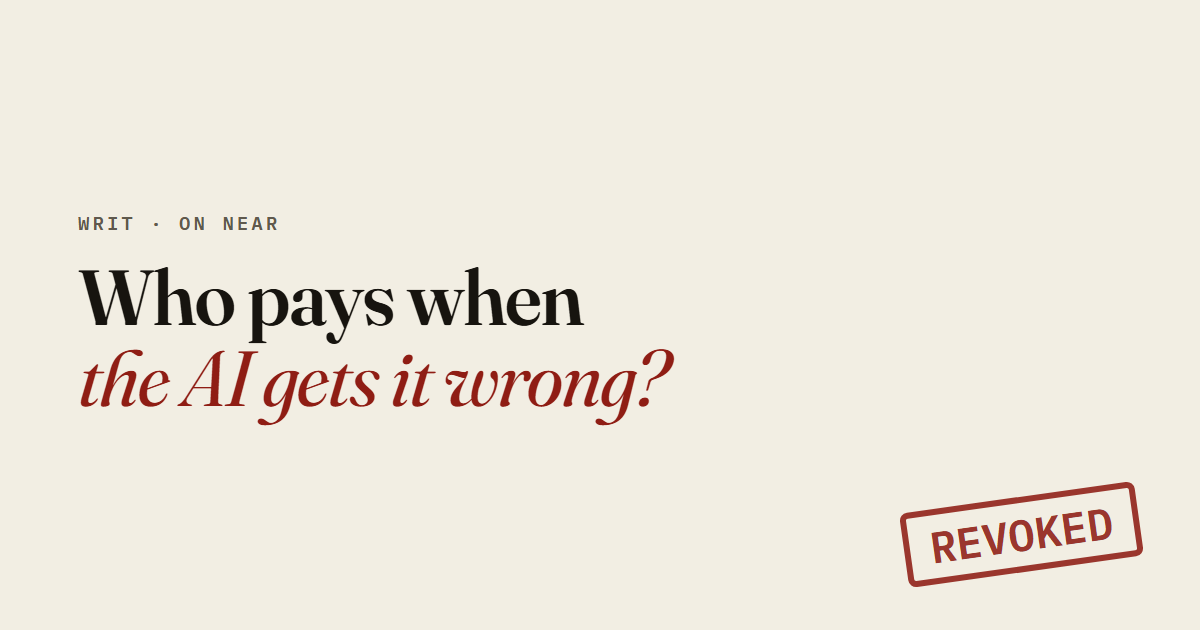
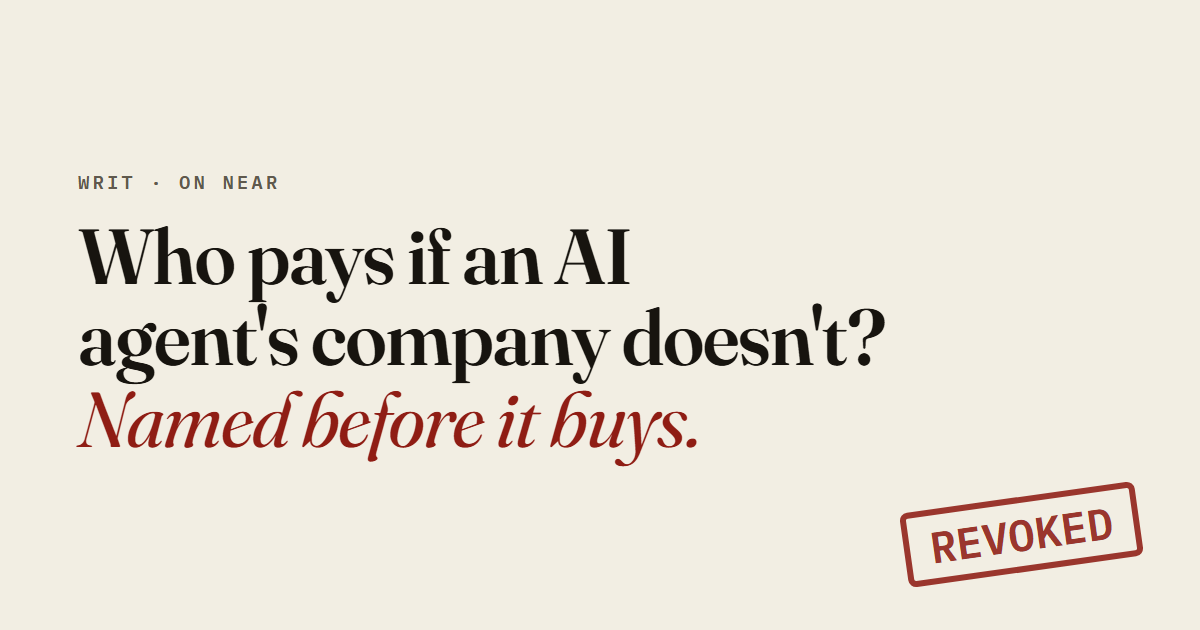
fix: testnet credit report path, verifier checks the terms signature, stamp and mobile layout

diff --git a/app/src/credit-demo.ts b/app/src/credit-demo.ts
@@ -8,14 +8,22 @@
  * 結尾印 CREDIT_RESULT 一行給機器檢查。
  */
 import { createHash } from "node:crypto";
-import { writeFileSync } from "node:fs";
+import { rmSync, writeFileSync } from "node:fs";
 import { join } from "node:path";
 import { teraToGas, type KeyPairString } from "near-api-js";
-import { DEMO, NEAR, as, call, fmt, readJson, view } from "./near.js";
+import { DEMO, NEAR, ROOT, as, call, fmt, readJson, view } from "./near.js";
 import { A, balance, register } from "./flow.js";
 import { keriPrivate, py, releaseLink } from "./keri.js";
 
 const a = A();
+// 對 testnet 跑：開一份新的憑證（別的流程留下的 ECR 已撤銷）。沒有專屬仲裁帳號，用 owner
+const LIVE = !!process.env.WRIT_CREDIT_REPORT;
+if (LIVE) {
+  for (const d of ["keri/.keystore", "keri/bundle", "keri/registrar"]) rmSync(join(ROOT, d), { recursive: true, force: true });
+  const init = py("issuer.py", "init", "--scope", a.merchant.id, "--rail", a.acme.id, "--n", "20", "--unit", "1e23", "--daily", "20", "--days", "30",
+    "--credit-limit", "1e24", "--bond-bps", "0", "--premium-bps", "200", "--min-tenor", "0", "--max-tenor", "86400", "--arbiter", a.owner.id, "--contract", a.writ.id);
+  py("verify.py", "pin", "--root", JSON.parse(init.slice(init.indexOf("{"), init.lastIndexOf("}") + 1)).root);
+}
 const say = (s: string) => console.log(s);
 const sleep = (ms: number) => new Promise((r) => setTimeout(r, ms));
 const sha = (s: string) => createHash("sha256").update(s).digest("hex");
@@ -41,7 +49,7 @@ async function order(j: number, invoice: string, dueInSecs: number) {
   for (const [m, args] of [["accept_credit", { credit: id }], ["mark_delivered", { credit: id, delivery_hash: sha(`delivery ${invoice}`) }]] as const) {
     const x = await call(seller, a.writ.id, m, args, { gas: teraToGas("50") });
     if (x.error) throw new Error(`${m}: ${x.error}`);
-    txs.push([`Seller ${m === "accept_credit" ? "accepts" : "marks delivered"} ${invoice}; the fee moves to the guarantor on accept`, x.hash]);
+    txs.push([m === "accept_credit" ? `Seller accepts ${invoice}; the fee moves to the guarantor` : `Seller marks ${invoice} delivered`, x.hash]);
   }
   return id;
 }
@@ -55,8 +63,11 @@ txs.push(["Agent settles the first order on time; the company stays sealed", s1.
 const card1: any = await view(a.writ.id, "risk_card", { cell });
 say(`2  order ${paid} delivered and paid on time → ${JSON.stringify(s1.value ?? s1.error)}; legal entity=${card1.legal_entity}; record: ${card1.settled} settled`);
 
-const unpaid = await order(8, "INV-CREDIT-2", 1);
-await sleep(5000);
+// testnet 上從算到期日到上鏈要好幾秒，到期日給寬一點；要等過到期日與 3 秒驗收期
+const dueSecs = LIVE ? 30 : 1;
+const placed = Date.now();
+const unpaid = await order(8, "INV-CREDIT-2", dueSecs);
+await sleep(Math.max(5000, placed + dueSecs * 1000 + 3000 - Date.now(), 5000));
 const s0 = await balance(a.merchant.id);
 const d = await call(seller, a.writ.id, "claim_default", { credit: unpaid }, { gas: teraToGas("100") });
 if (d.error) throw new Error("claim_default: " + d.error);

diff --git a/site/index.html b/site/index.html
@@ -68,7 +68,7 @@
   .stamp.d1 { animation-delay:.32s; } .stamp.d2 { animation-delay:.64s; } .stamp.d3 { animation-delay:.96s; }
   @keyframes slam { 0% { opacity:0; transform:rotate(-7deg) scale(2.6); } 100% { opacity:.9; transform:rotate(-7deg) scale(1); } }
   .mini .stamp.on { animation-name:slam2; }
-  @keyframes slam2 { 0% { opacity:0; transform:translateX(50%) rotate(-7deg) scale(2.6); } 100% { opacity:.9; transform:translateX(50%) rotate(-7deg) scale(1); } }
+  @keyframes slam2 { 0% { opacity:0; transform:rotate(-5deg) scale(2.2); } 100% { opacity:.9; transform:rotate(-5deg) scale(1); } }
   .caption { font-size:13.5px; color:var(--soft); margin:12px 0 0; }
   .card-row { display:grid; grid-template-columns:auto 1fr; gap:0 16px; font-size:14.5px; }
   .card-row dt { color:var(--soft); padding:6px 0; border-top:1px solid var(--rule); white-space:nowrap; }
@@ -167,7 +167,7 @@
   @media (prefers-reduced-motion:reduce) { .reveal, .stamp.on { animation-duration:.01s; animation-delay:0s; } html { scroll-behavior:auto; } }
   @media (max-width:880px) {
     .hero, .steal { grid-template-columns:1fr; gap:34px; }
-    .hero { padding:28px 0 44px; display:flex; flex-direction:column; gap:18px; }
+    .hero { padding:28px 0 44px; display:flex; flex-direction:column; align-items:stretch; gap:18px; }
     .hero > div:first-child { display:contents; }
     .hero h1 { order:1; margin:0; font-size:clamp(34px,10vw,46px); }
     .hero .eyebrow.reveal { order:0; margin:0; }

diff --git a/site/app.ts b/site/app.ts
@@ -314,8 +314,8 @@ async function tally() {
   $("vault").textContent = near(c.vault);
   $("rejected").textContent = String(c.rejects);
   $("attemptsTop").textContent = String(c.rejects);
-  // 開格時已付一筆給供應商；之後多用掉任何一節都算被偷
-  $("stolenTop").textContent = String(Math.max(0, c.idx - Number(cfg.bounty.spent_link ?? 1)));
+  // 開格時已付一節給供應商；之後多用掉任何一節都算被偷
+  $("stolenTop").textContent = String(Math.max(0, c.idx - 1));
   $("links").textContent = `${c.idx}/${c.n}`;
 }
 const spend = (preimage: string, j: number, to: string) => call(thief, "spend", { preimage, j, to, invoice_hash: randomHex() }, "20");

diff --git a/keri/verify.py b/keri/verify.py
@@ -195,6 +195,11 @@ def cmd_attest(a):
         # 固定假名：同一家公司跨格累積紀錄；只有保證人算得出來，別人比對不出 LEI
         tag = hmac.new(bytes.fromhex(read_json(VKEY)["sk_hex"]), r["lei"].encode(), hashlib.sha256).hexdigest()[:24]
         terms = read_json(os.path.join(BUNDLE, "terms.json"))
+        signed = f"writ:terms:v1\ncontract={a.contract}\namc={r['amc_said']}\nterms={r['credit']['terms_hash']}\nlei={r['lei']}".encode()
+        try:
+            pysodium.crypto_sign_verify_detached(bytes.fromhex(terms["terms_sig"]), signed, bytes.fromhex(r["le_pk"]))
+        except Exception:
+            sys.exit("REFUSED: the legal entity did not sign these credit terms")
         credit = dict(r["credit"], terms_sig=terms["terms_sig"], entity_tag=tag)
     msg = attestation_message(r, lei_commit, ecr_commit, a.verifier, a.contract, attested_at, credit).encode()
     sig = pysodium.crypto_sign_detached(msg, bytes.fromhex(key["sk_hex"]))

diff --git a/contract/tests/bench.rs b/contract/tests/bench.rs
@@ -2140,7 +2140,7 @@ async fn b30_the_guarantor_earns_a_fee_for_standing_behind_the_order() -> anyhow
     let v1: u128 = c1["vault"].as_str().unwrap().parse()?;
     assert!(v0 - v1 > fee, "storage and fee both left the vault");
     assert_eq!(cw.solvent().await["solvent"], true);
-    // 取消也不退，公司不能靠取消白拿保證
+    // 結清也不退：費用買的是已經承擔的曝險
     cw.seller("mark_delivered", json!({"credit": id, "delivery_hash": hex::encode([1u8; 32])})).await.unwrap();
     let v: Value = cw.agent.call(w.writ.id(), "settle").args_json(json!({"credit": id})).gas(near_workspaces::types::Gas::from_tgas(50)).transact().await?.into_result()?.json()?;
     assert!(v.get("CreditSettled").is_some(), "{}", v);

diff --git a/README.md b/README.md
@@ -8,7 +8,7 @@ An AI agent wants to buy from you on credit. Nobody can prove it won't be fooled
 
 1. **The company's name is sealed and a guarantor is named.** The seller reads a risk card: guarantor, locked stake, credit limit, bond, payment record, and only a commitment to the company's LEI.
 2. **The guarantor earns a fee.** When the seller accepts, the company's vault pays the guarantor a percentage of the order, signed into the mandate. That is why a guarantor would do this.
-3. **If the company doesn't pay, the seller is still paid.** After delivery, the due date and an inspection window, the seller claims default, with no approval needed. The money comes from the agent's vault, then the company's vault including its bond, then the guarantor's stake. The company can stop this only by escrowing the full amount and opening a dispute. Until it repays, its agents can't pay, hire or take new credit.
+3. **If the company doesn't pay, the seller is still paid.** After delivery, the due date and an inspection window, the seller claims default, with no approval needed. The money comes from the agent's vault, then the company's vault including its bond, then the guarantor's stake. The company can stop this only by escrowing the full amount and opening a dispute. If that leaves a debt to the guarantor, the company's agents can't pay, hire or take new credit until it repays.
 4. **If it repays the guarantor in time, it stays sealed.** If it doesn't, the guarantor closes that mandate's whole tree of agents in one transaction, money left in the tree repays the guarantor first, and if a debt remains the guarantor names the company. The contract checks the name against the commitment and the legal entity's signature.
 
 Under that, every agent is tied to the person who authorized it. Each hire can only narrow what it may do, and firing that person deletes every key in the tree. The chain follows GLEIF's vLEI: legal entity → named employee (role credential, official schema) → agent (Agent Mandate Credential, a proposal based on GLEIF's August 2026 discussion paper) → the agents it hires.
@@ -252,7 +252,7 @@ const r = await agent.pay({ invoice: "INV-0042", to: "supplier.near", links: 1, 
 |---|---|---|
 | `new(owner, unseal_delay_secs?)` | the contract account itself, in the deploy batch | sets the owner and the disclosure waiting period (default 120 s) |
 | `set_verifier(account, pk_hex?)` | owner | whitelist or remove a verifier's Ed25519 key |
-| `register(args)` payable | legal entity (funder) | verifies attestation (`ed25519_verify`), opens cell, adds agent function-call key (`spend` only), vault = deposit − fee (token cells: excess NEAR returned); each AMC can register once; attestation must be under 1 hour old |
+| `register(args)` payable | legal entity (funder) | verifies attestation (`ed25519_verify`), opens cell, adds agent function-call key (agent methods only), vault = deposit − fee (token cells: excess NEAR returned); each AMC can register once; attestation must be under 1 hour old |
 | `spend(preimage, j, to, invoice_hash)` | agent key only (`signer == contract`) | checks → `Paid` after the transfer succeeds, or `Rejected{reason}`; `maxStrikes` consecutive rejections delete the key |
 | `hire(preimage, j, child)` | agent key only | spends `j` links to open a narrower cell for a new agent key; policy failures return `Rejected{reason}` |
 | `dismiss(child)` | the hiring agent's key | closes that sub-agent and everything under it; funds go to the funder |
@@ -266,7 +266,7 @@ const r = await agent.pay({ invoice: "INV-0042", to: "supplier.near", links: 1, 
 | `ft_on_transfer(sender_id, amount, msg)` | NEP-141 token (via `ft_transfer_call`) | fund a token cell; `msg` = cell id; anything else is refunded |
 | `stake()` payable, `request_unstake`, `withdraw_stake` | guarantor | lock stake; only stake beyond open exposure can leave, after a delay |
 | `open_credit(preimage, j, to, invoice_hash, due_at)` | agent key only | spends links, takes no money yet; refused while the company owes its guarantor (`FROZEN`) |
-| `accept_credit(credit)`, `mark_delivered(credit, hash)` | seller | accepting locks the bond and the guarantor's exposure; delivery starts the inspection window |
+| `accept_credit(credit)`, `mark_delivered(credit, hash)` | seller | accepting pays the fee to the guarantor and locks the bond and its exposure; delivery starts the inspection window |
 | `settle(credit)` / `settle_by_funder(credit)` payable | agent key / funder | pay the seller; identity stays sealed |
 | `dispute(credit, reason)` payable, `resolve_dispute`, `resolve_timeout` | funder escrows the amount / arbiter / anyone after time runs out | no ruling: the seller wins with a delivery proof, otherwise the company gets its escrow back |
 | `claim_default(credit)` | seller (guarantor if the seller stays silent past a further recourse period) | pays the seller up to the full amount from vault, bond, then stake; starts recourse |
